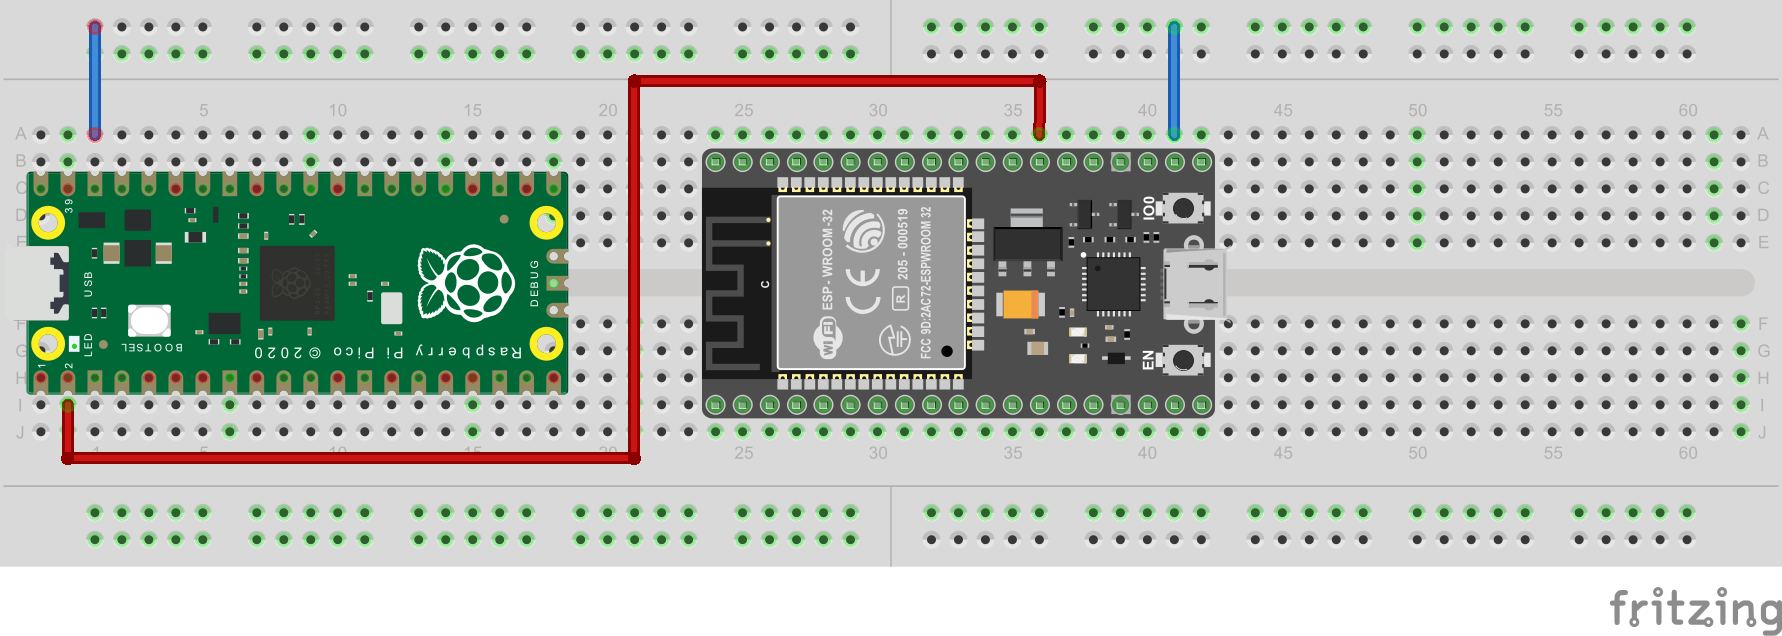
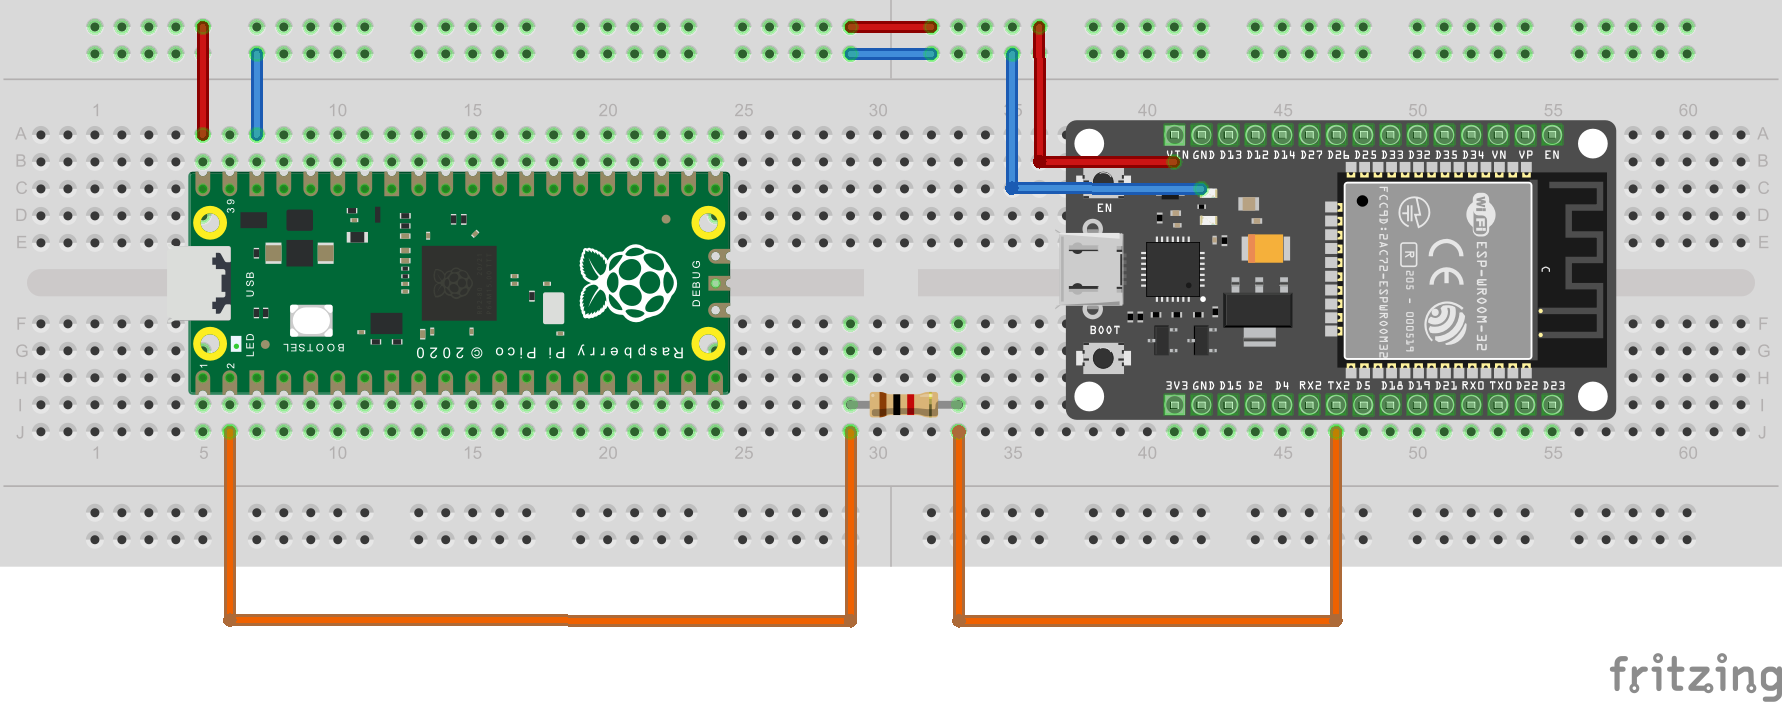
[hardware breadboard] fix esp32 module + doc

diff --git a/README.md b/README.md
@@ -56,10 +56,14 @@ Based on ESP32 and Raspberry Pi Pico.
 
 Layout made with [Fritzing](https://fritzing.org/).
 
-* ESP32-DevKitV1 pin 7 ``U2_TXD`` connects to RPI Pico pin 2 ``UART0 RX``
-* Connect together at least one GND point from each board
-  * ESP32-DevKitV1 pin 2 ``GND``
-  * RPI Pico pin 38 ``GND``
+* Power and USB communication are plugged via the **Raspberry Pi Pico** board (micro USB cable).
+  * **ESP32-DevKitV1** ``VIN`` connects to **Raspberry Pi Pico** ``VBUS``.
+  * **ESP32-DevKitV1** ``GND`` connects to **Raspberry Pi Pico** ``GND``.
+* **ESP32-DevKitV1** board is powered via the ``RED`` and ``BLUE`` wires.
+* Communication between **ESP32-DevKitV1** and **Raspberry Pi Pico** is made via the orange wire:
+  * **ESP32-DevKitV1** ``U2_TXD`` connects to **Raspberry Pi Pico** ``UART0 RX``.
+  * The 1K resistor is not really needed, but is advisable to avoid  damaging of the digital pins due electromagnetic induction.
+  
 
 [Back to top](#table-of-contents)
 
